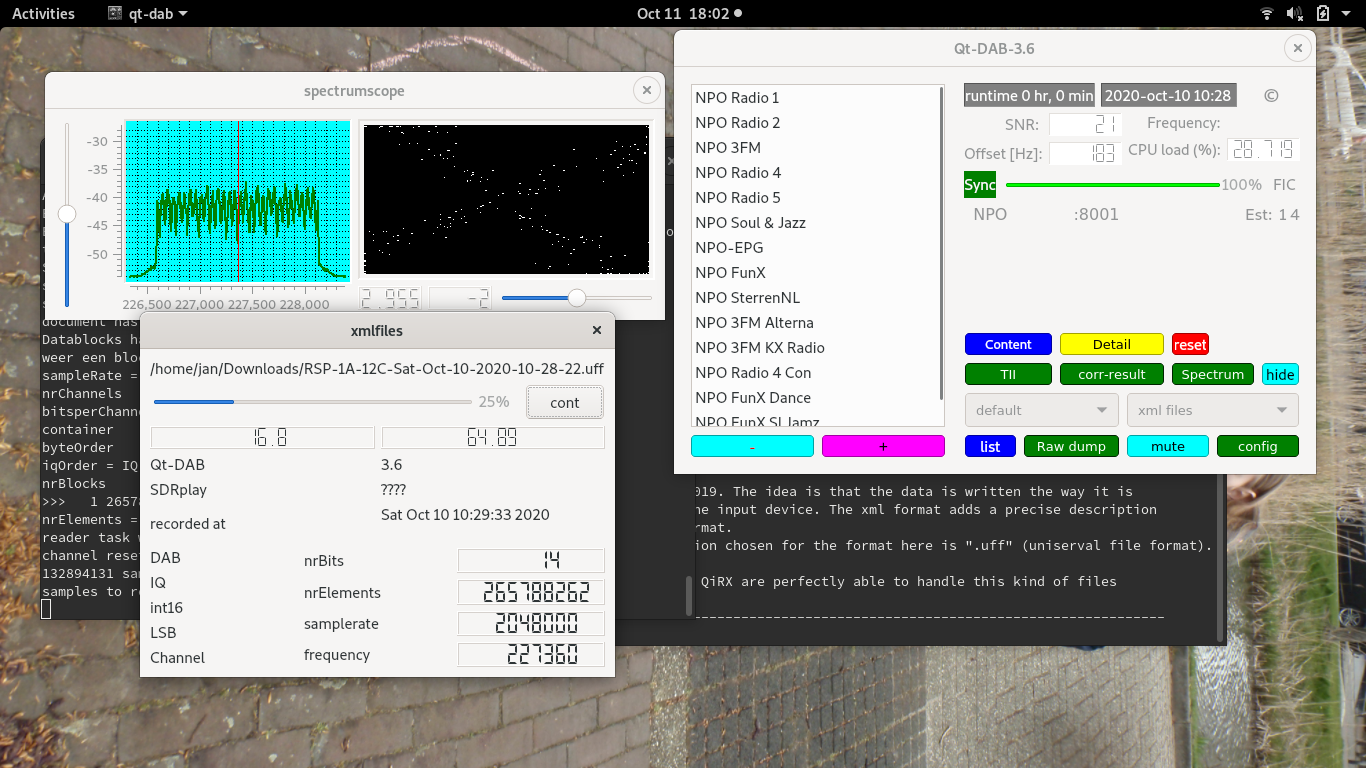
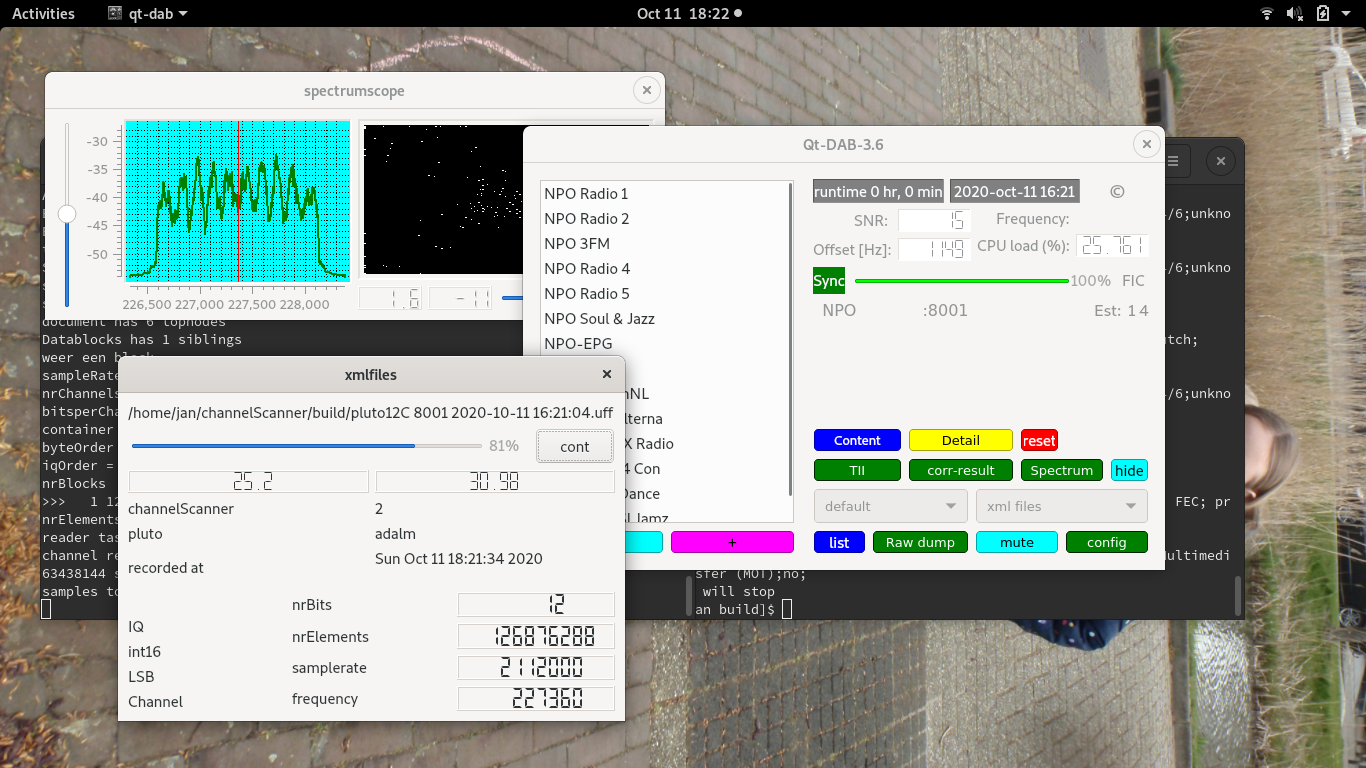
picture changed

diff --git a/README.md b/README.md
@@ -4,14 +4,14 @@ dab-channelScanner
 -------------------------------------------------------------------------
 
 channelScanner is derived from the dab-cmdline scanner program.
-The channel-scanner is used to scan some channels, channels specified in
+The channelScanner is used to scan some channels, channels specified in
 the command line.
 
 The output is (can be) twofold:
 
-   a. a description of the content of the DAB data found in the scannel;
+   a. a **description** of the content of the DAB data found in the scannel;
 
-   b. a dump of a specified number of seconds of the raw input data.
+   b. a **dump** of a specified number of seconds of the raw input data in xml format.
 
 ![channel-scanner](/channel-scanner.png?raw=true)
 
@@ -32,7 +32,7 @@ will scan the channels 12C, 11C, 5B, 5C and 8A, with the autogain set and
 
    a. the combined scandata will be written to the file /tmp/datafile.txt. The file is a text file, but can be read in with e.g. LibreOfficeCalc or similar programs
 
-   b. in case the channel contains detectable DAB data, raw data of the channel will be written to a file for "duration" SECONDS. The filename is a combination of the channel, the EID and the date, e.g.  "5B 8181 2020-09-15 10:43:04.uff"
+   b. in case the channel contains detectable DAB data, raw data of the channel will be written to a file for "duration" SECONDS. The filename is a combination of the  device, the channel,  the EID and the date, e.g. "pluto12C 8001 2020-10-11 16:21:04.uff"
 
 The basic parameters are
 
